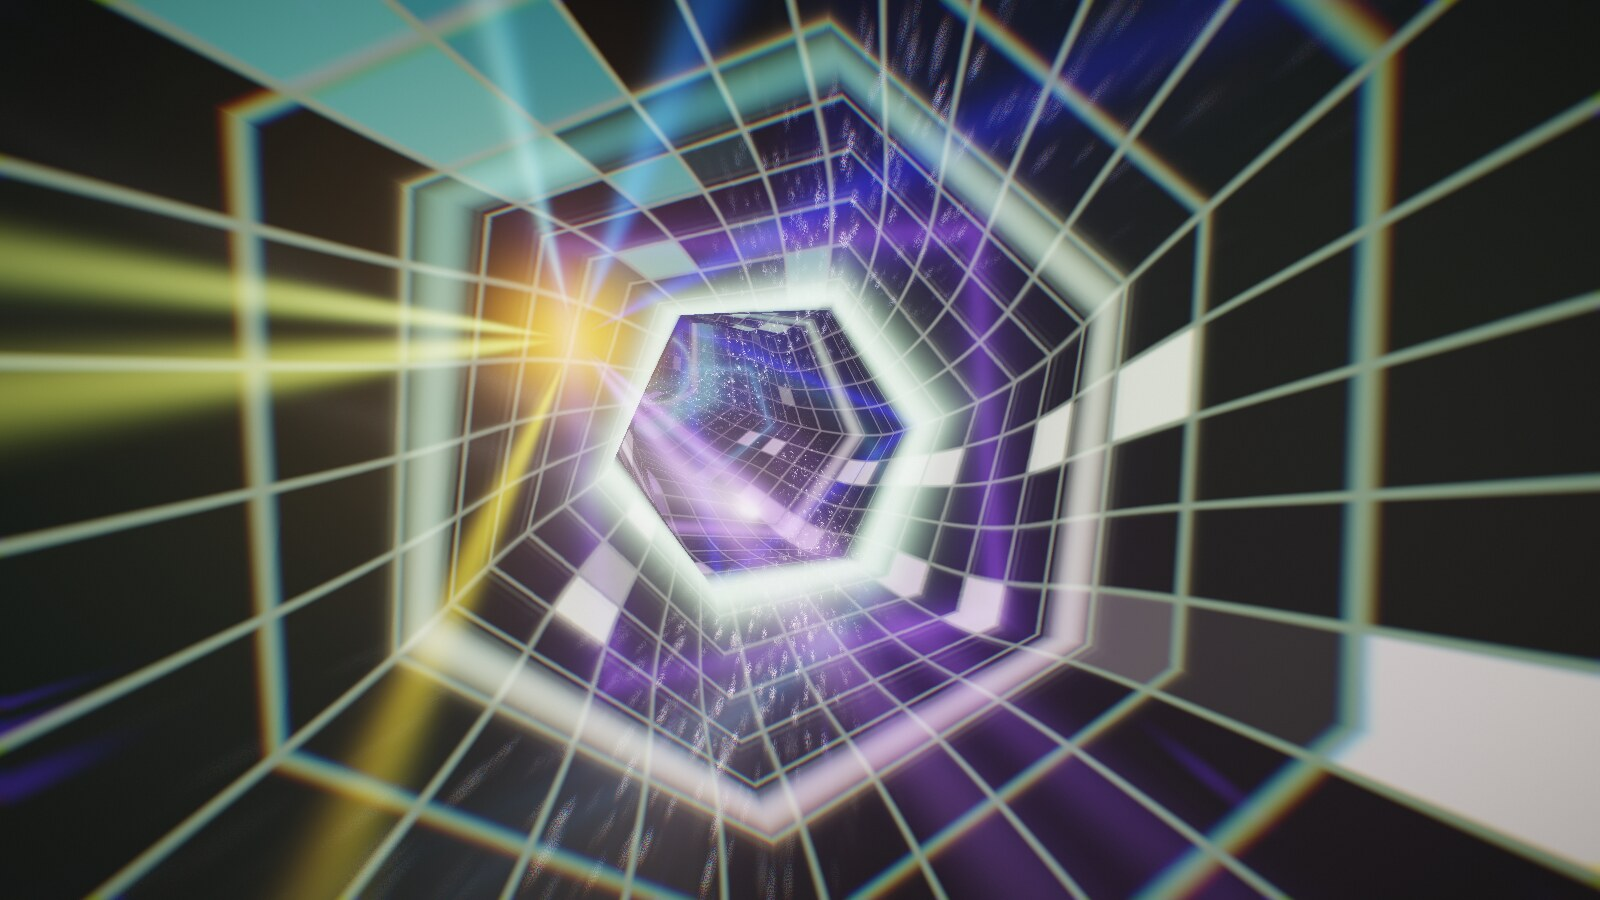
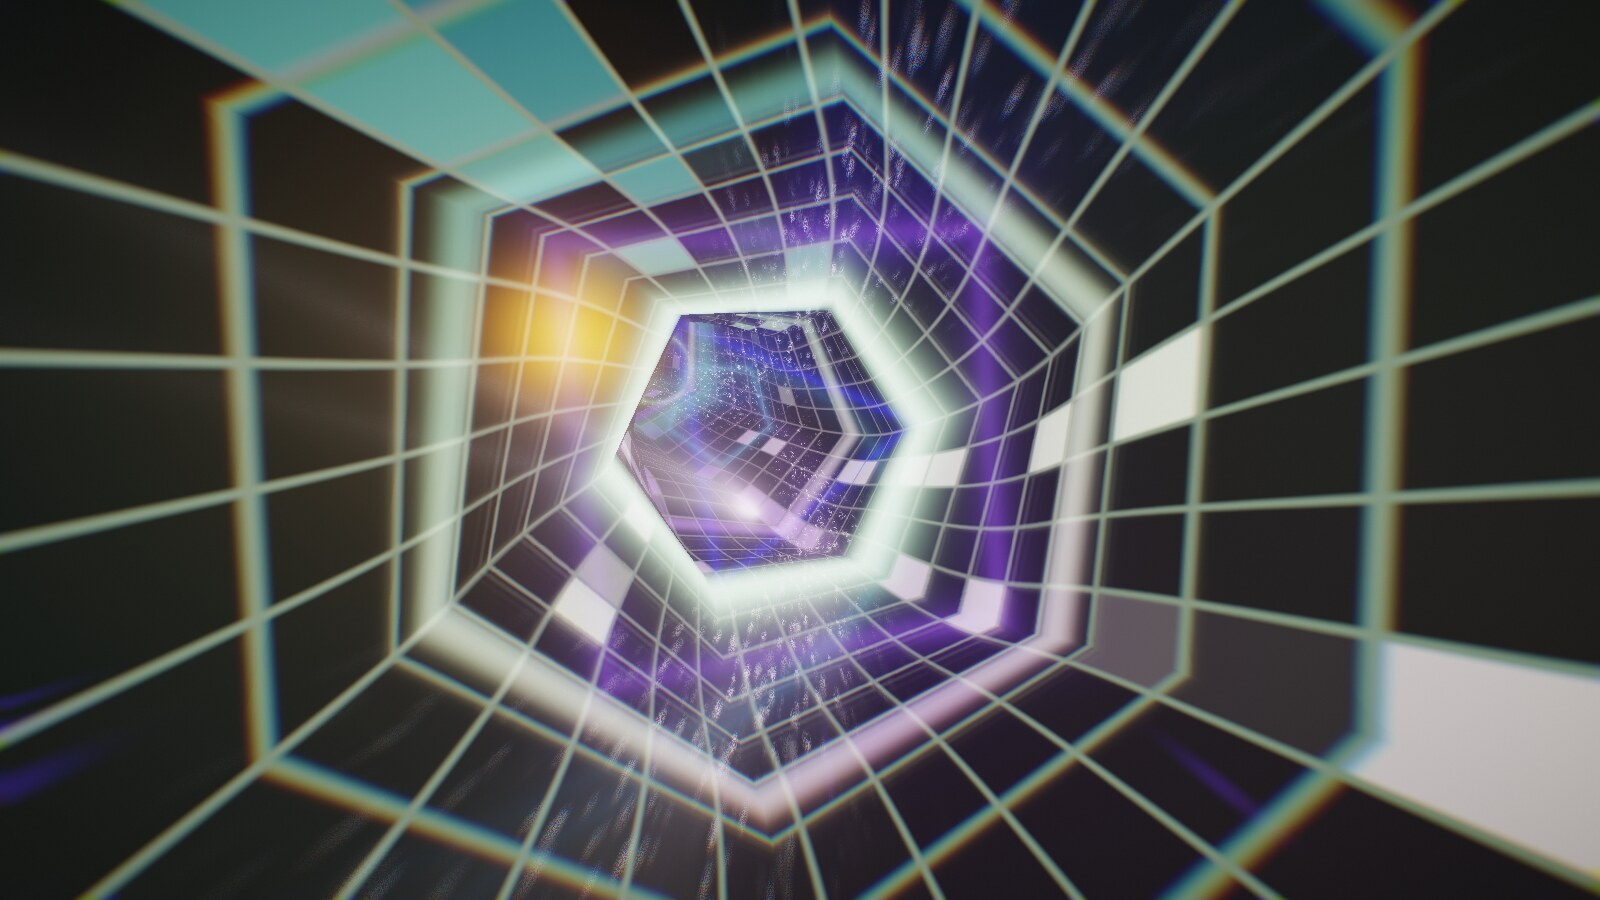
Rabbit Hole: remove the laser fan
The rays from the end of the tunnel were distracting. Also retakes the README
screenshot without it.

diff --git a/README.md b/README.md
@@ -21,7 +21,7 @@ tunnel from Sonique. *Cuniculus* is Latin for rabbit and for burrow.
 - **Rabbit Hole**: a twisting neon tunnel. Wall panels are the spectrum, floating rings follow
   the mids, glitter follows the highs, and light trails weave down the middle. Every kick fires
   a ring of light ahead of you, surges the speed and steps the colours; the tunnel changes
-  shape every 16 kicks, and a laser fan opens up when the track is at full energy.
+  shape every 16 kicks.
 - **Lodestar**: a liquid-metal star with three families of spikes, one each for bass, mids and
   highs, so a kick visibly punches the big spikes out. A spectrum disk turns with the tempo,
   every kick sends out a ring and a shock shell, and particle streams open from the poles at full energy.
